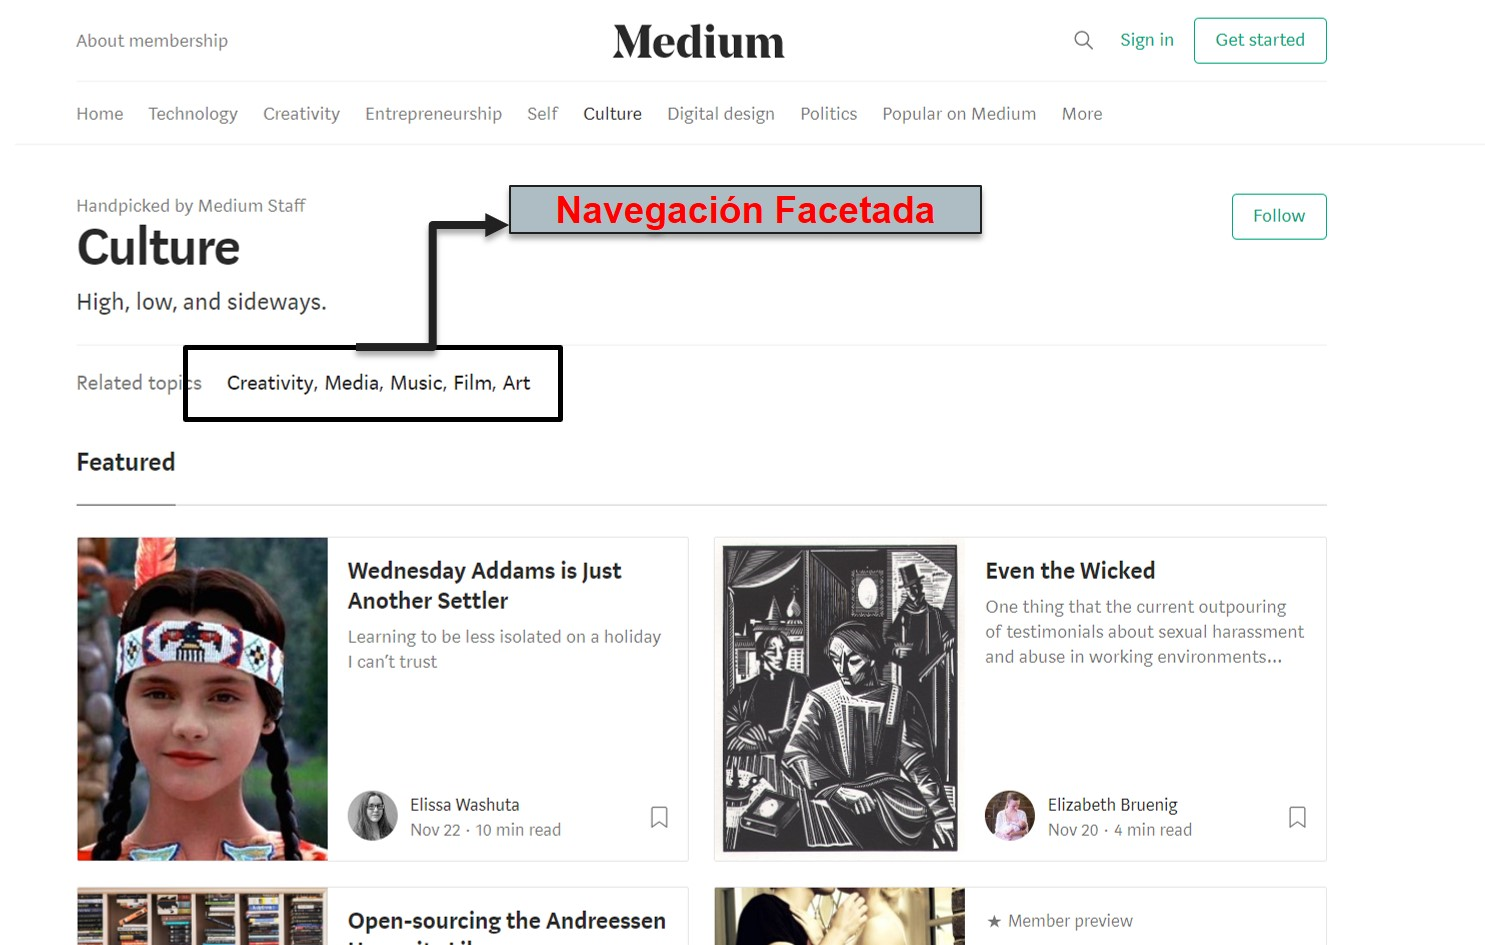
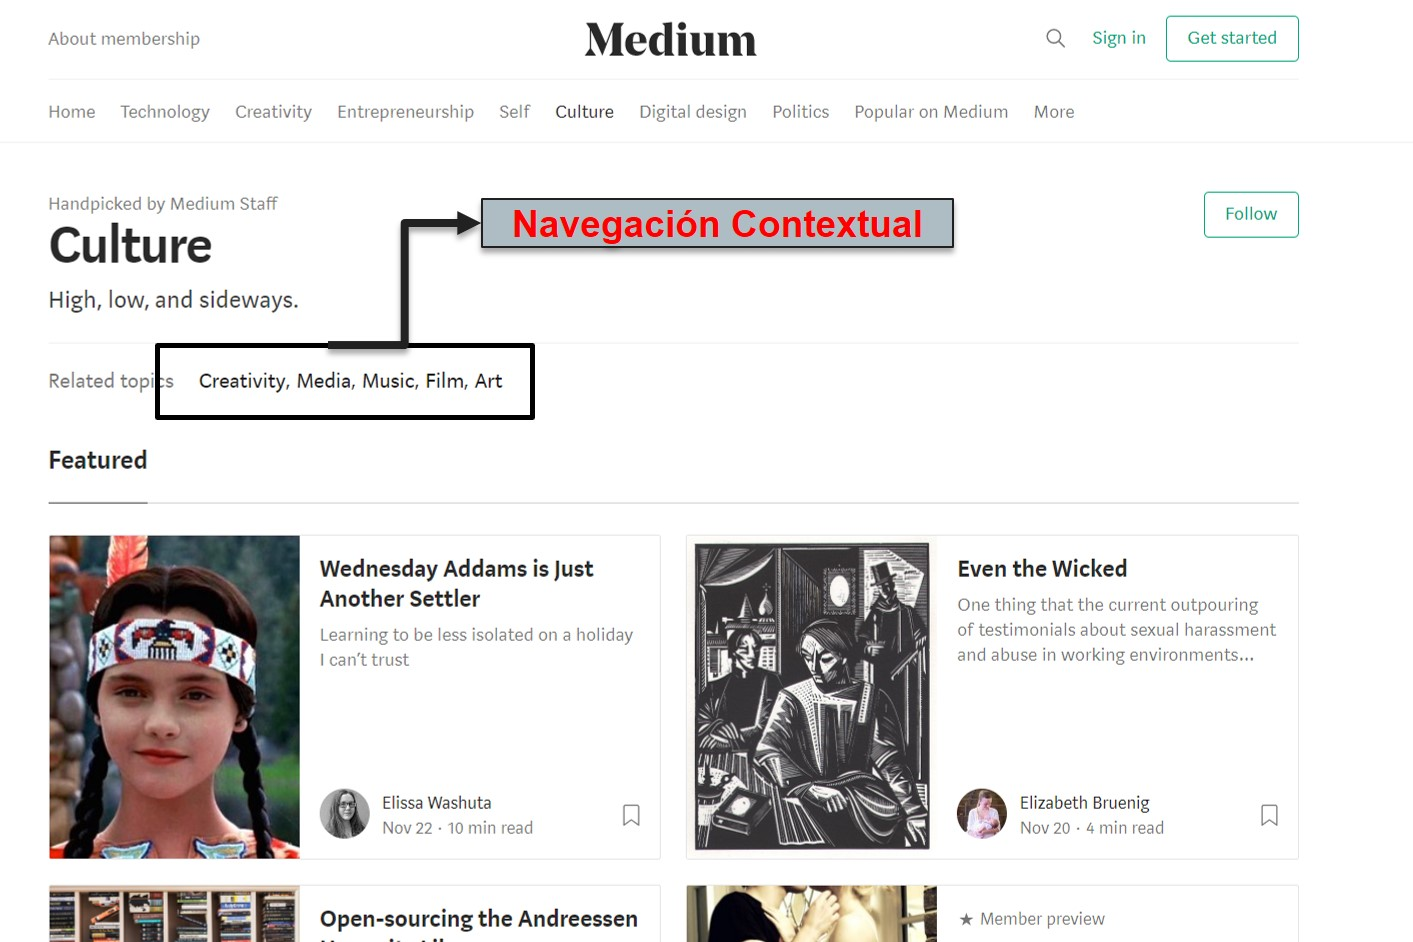
terminando readme

diff --git a/README.md b/README.md
@@ -1,6 +1,5 @@
 # Elementos de Navegación
 En los siguientes sites identificar los elementos de navegación.
-
 ## Breather
 Se identificaron los siguientes elementos:
 * Navegación Global.
@@ -13,5 +12,25 @@ Se identificaron los siguientes elementos:
 
 ![imagen-3](https://fotos.subefotos.com/ce5b2a56ed8136db9e92bcae57856765o.jpg)
 
-![imagen-3](https://fotos.subefotos.com/7f6aa02784bc08f9f8c1e09c22bbf217o.jpg)
+![imagen-4](https://fotos.subefotos.com/7f6aa02784bc08f9f8c1e09c22bbf217o.jpg)
+
+## GitHub
+Se identificaron los siguientes elementos:
+* Navegación Global.
+* Navegación Local.
+
+![imagen-5](https://fotos.subefotos.com/0ad7ccb9378bd44ce18abba335d07a29o.jpg)
+
+![imagen-6](https://fotos.subefotos.com/475d41d28cb2fca49becb1dd7be4d21bo.jpg)
+
+## Medium 
+Se identificaron los siguientes elementos:
+* Navegacion Global.
+* Navegacion Contextual.
+
+![imagen-7](https://fotos.subefotos.com/9f9631be032a1182732434b564a6943fo.jpg)
+
+![imagen-8](https://fotos.subefotos.com/40446f4b344461cb2b766aee29cf2774o.jpg)
+
+
 
